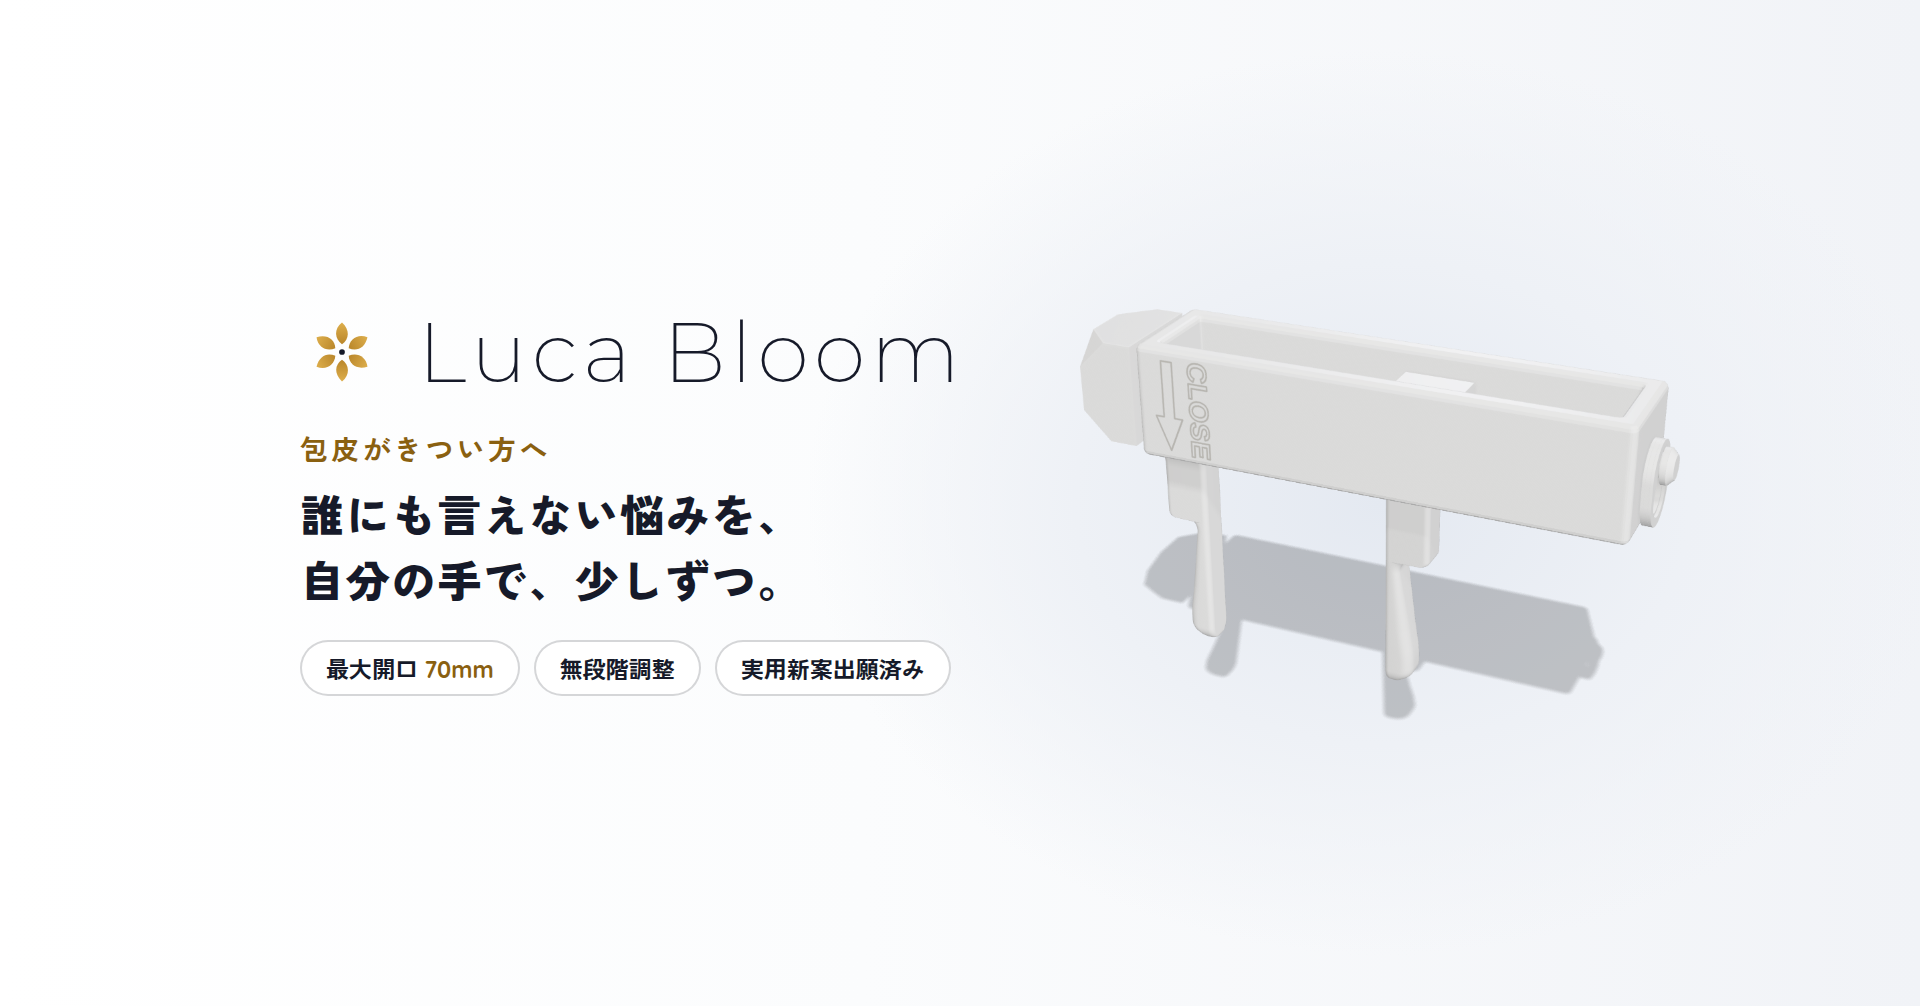
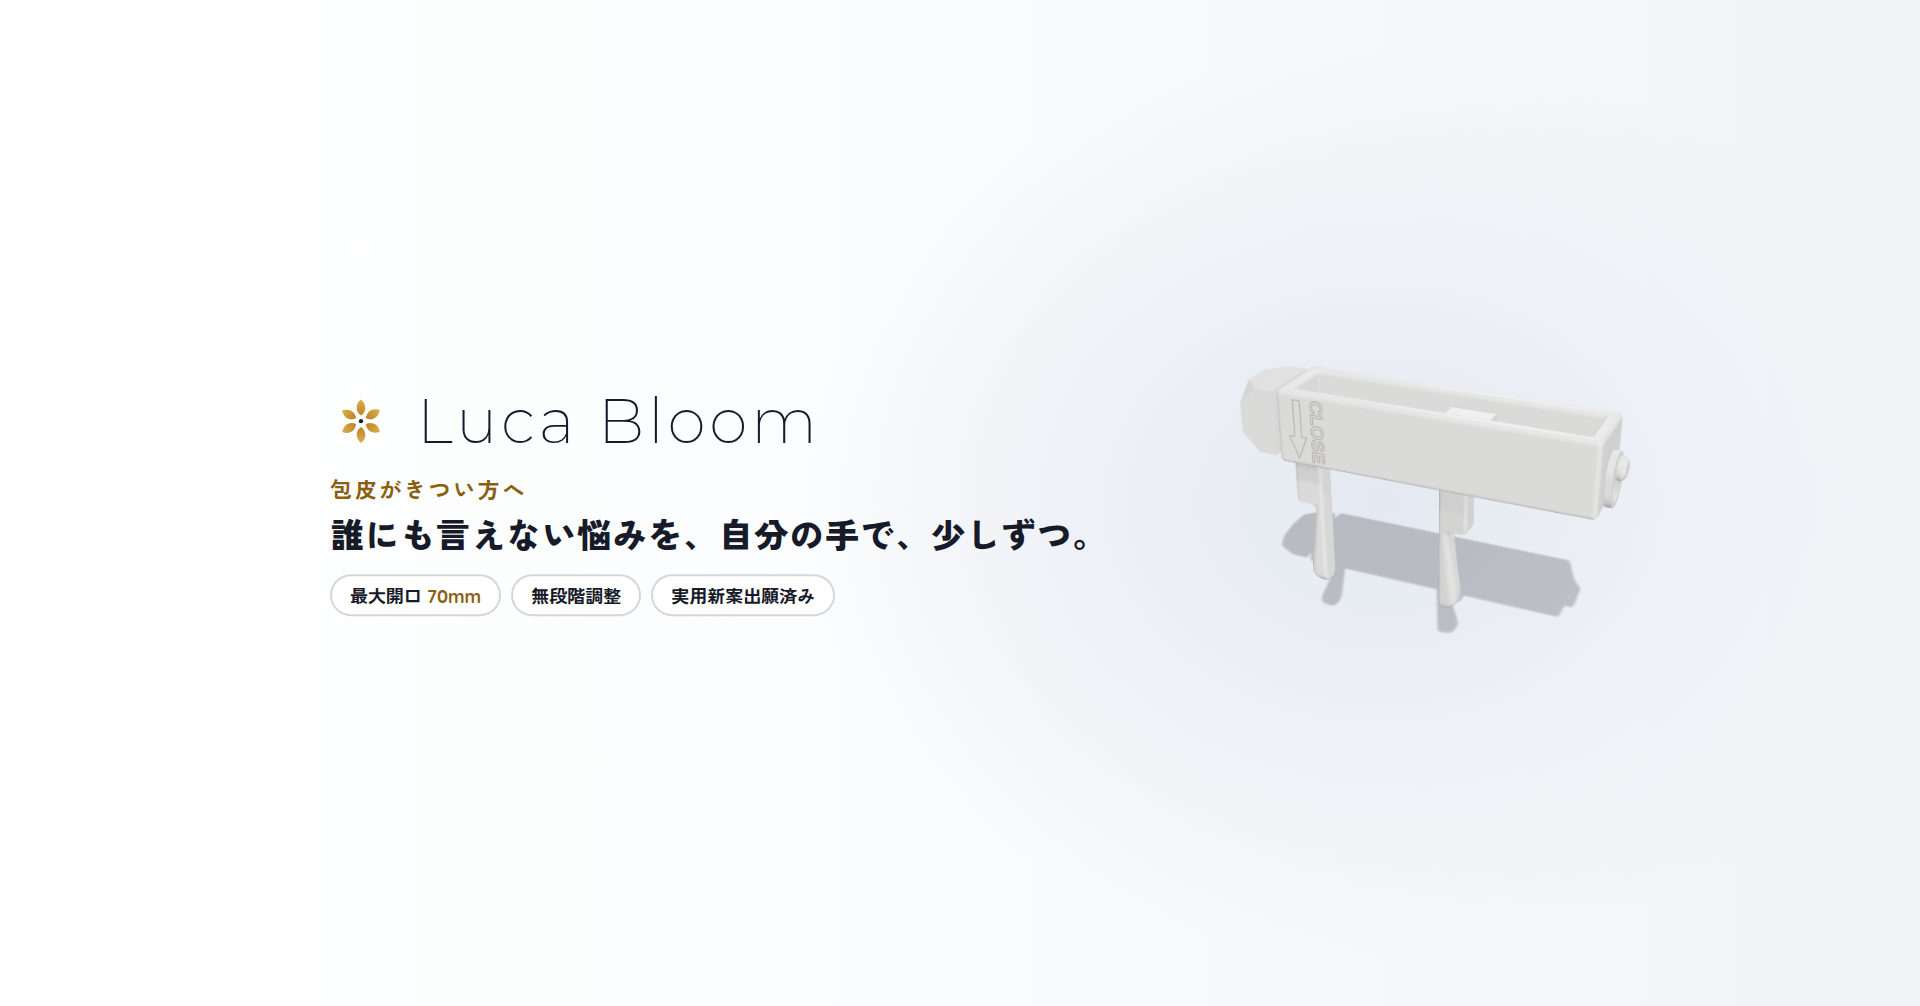
noteヘッダーの文字と製品を表示範囲（中央の帯）に収める
Claude-Session: https://claude.ai/code/session_01HjZAzFQXHxsYeWtaSCfngn

diff --git a/sns/brand/README.md b/sns/brand/README.md
@@ -10,7 +10,7 @@
 - アイコン：紺（#161A29）の地に金（#E3B34E）の6枚の花弁。中央を空けて「開く＝Bloom」を表現。円形に切り抜かれても欠けないよう、図柄は直径の70%以内に収めています。32px まで縮めても形が判別できます。
 - ヘッダー画像は白背景です。
 - X のヘッダーは、左下（横 0〜380px・縦 330〜500px）がアイコンで隠れるため、文字をその範囲の外に置いています。
-- note のヘッダーは画面幅によって上下が切り取られるため、文字と製品を縦 304〜702px の帯に収めています。
+- note のヘッダーは画面幅によって上下が切り取られるため、文字と製品を中央の縦 380〜626px の帯に収めています（幅2000px前後の画面で表示されるのは縦 340〜666px）。
 - 製品の画像は LP と同じ 3D モデル（`src/scene/`）から書き出したものです。
 
 ## 紹介文
